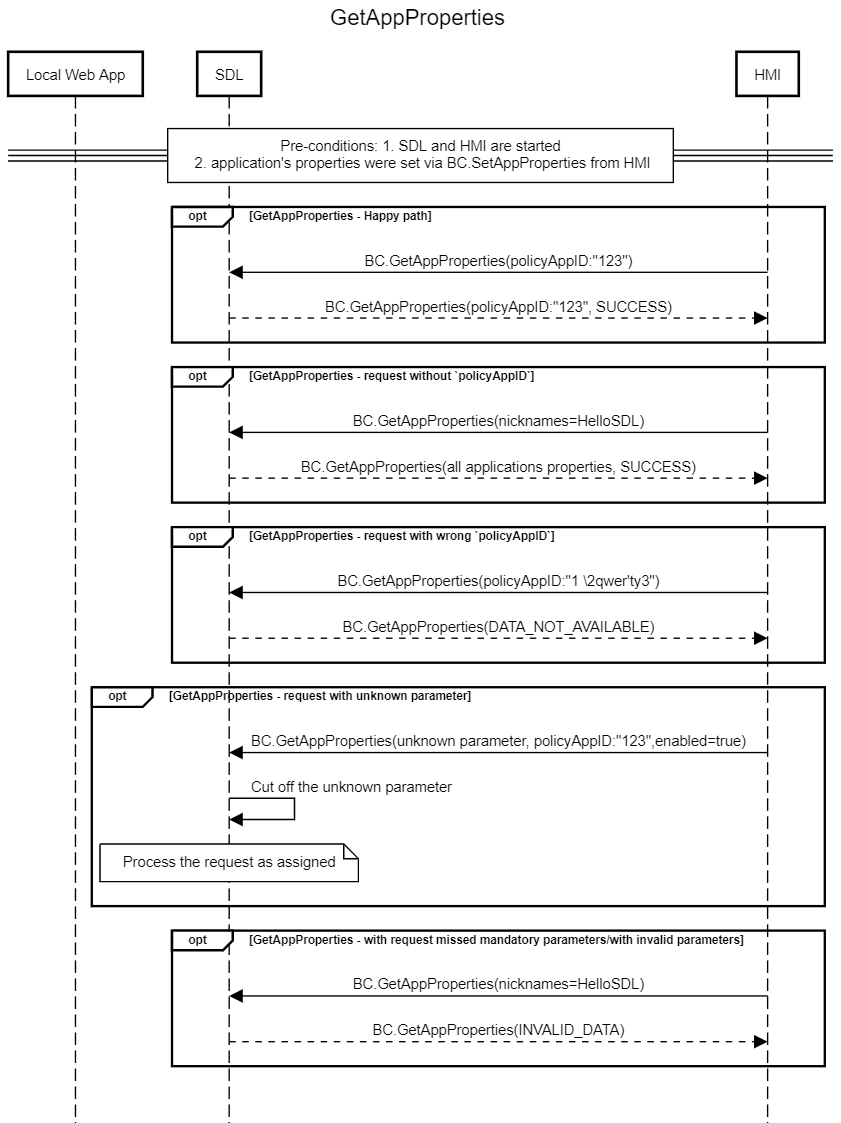
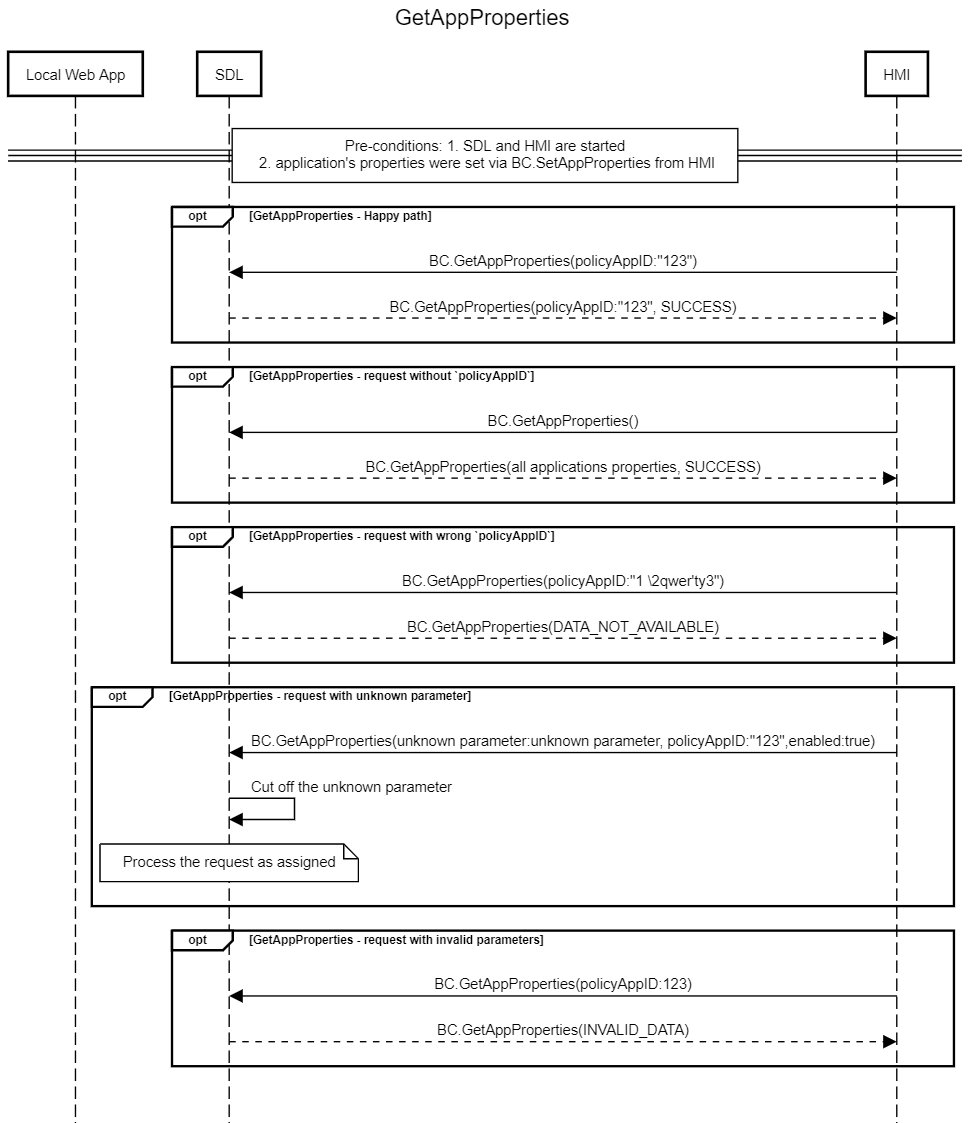
upd SetAppProperties, GetAppProperties RPCs

diff --git a/docs/BasicCommunication/GetAppProperties/index.md b/docs/BasicCommunication/GetAppProperties/index.md
@@ -7,7 +7,7 @@ Sender
 : HMI
 
 Purpose
-: Get the current properties of a local (web) application
+: Get the current properties of an application
 
 
 ### Request
@@ -54,10 +54,8 @@ In case `policyAppID` is ommited in the request, SDL provides all app properties
       },
       "policyAppID" : 123456, 
       "enabled": true, 
-      "authToken":"AuthToken1234", 
       "transportType":"WS", 
-      "hybridAppPreference": "CLOUD", 
-      "endpoint": "index.html"
+      "hybridAppPreference": "BOTH"
       },
     "code" : 0,
     "method" : "BasicCommunication.GetAppProperties"

diff --git a/docs/BasicCommunication/SetAppProperties/index.md b/docs/BasicCommunication/SetAppProperties/index.md
@@ -59,10 +59,8 @@ This RPC has no additional parameter requirements.
       },
       "policyAppID" : 123456, 
       "enabled": true, 
-      "authToken":"AuthToken1234", 
       "transportType":"WS", 
-      "hybridAppPreference": "CLOUD", 
-      "endpoint": "index.html"
+      "hybridAppPreference": "CLOUD"
       },
     "code" : 0,
     "method" : "BasicCommunication.GetAppProperties"
